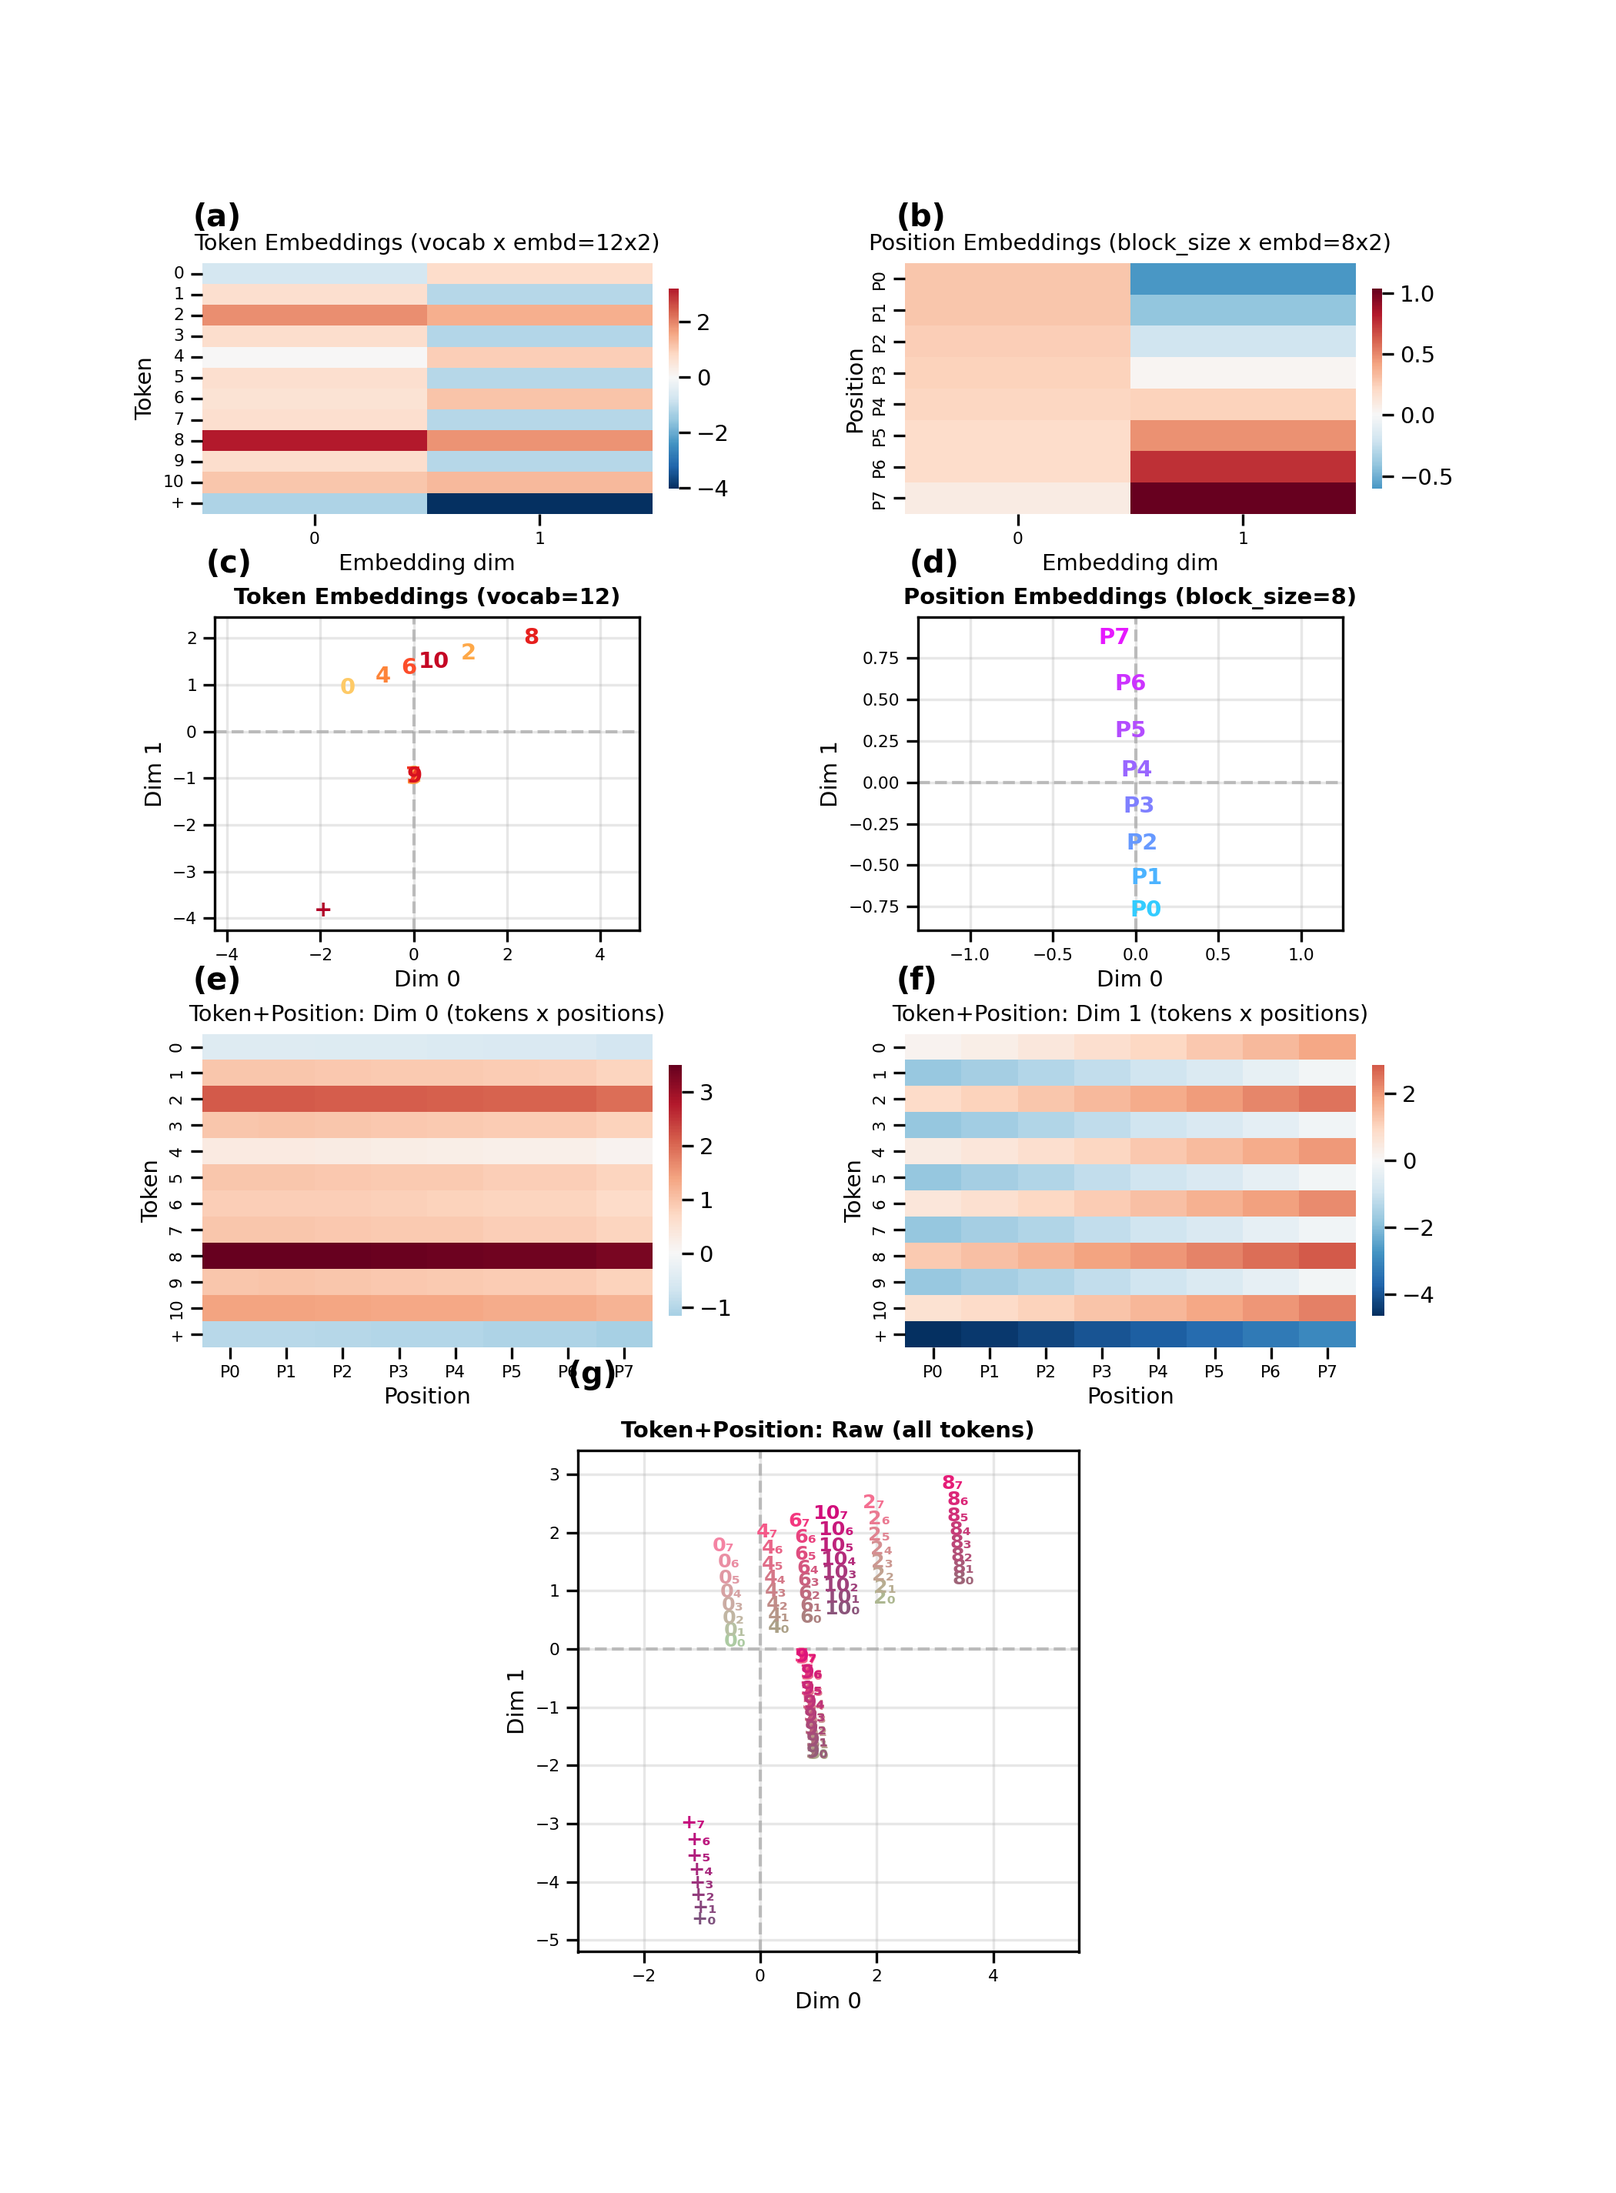
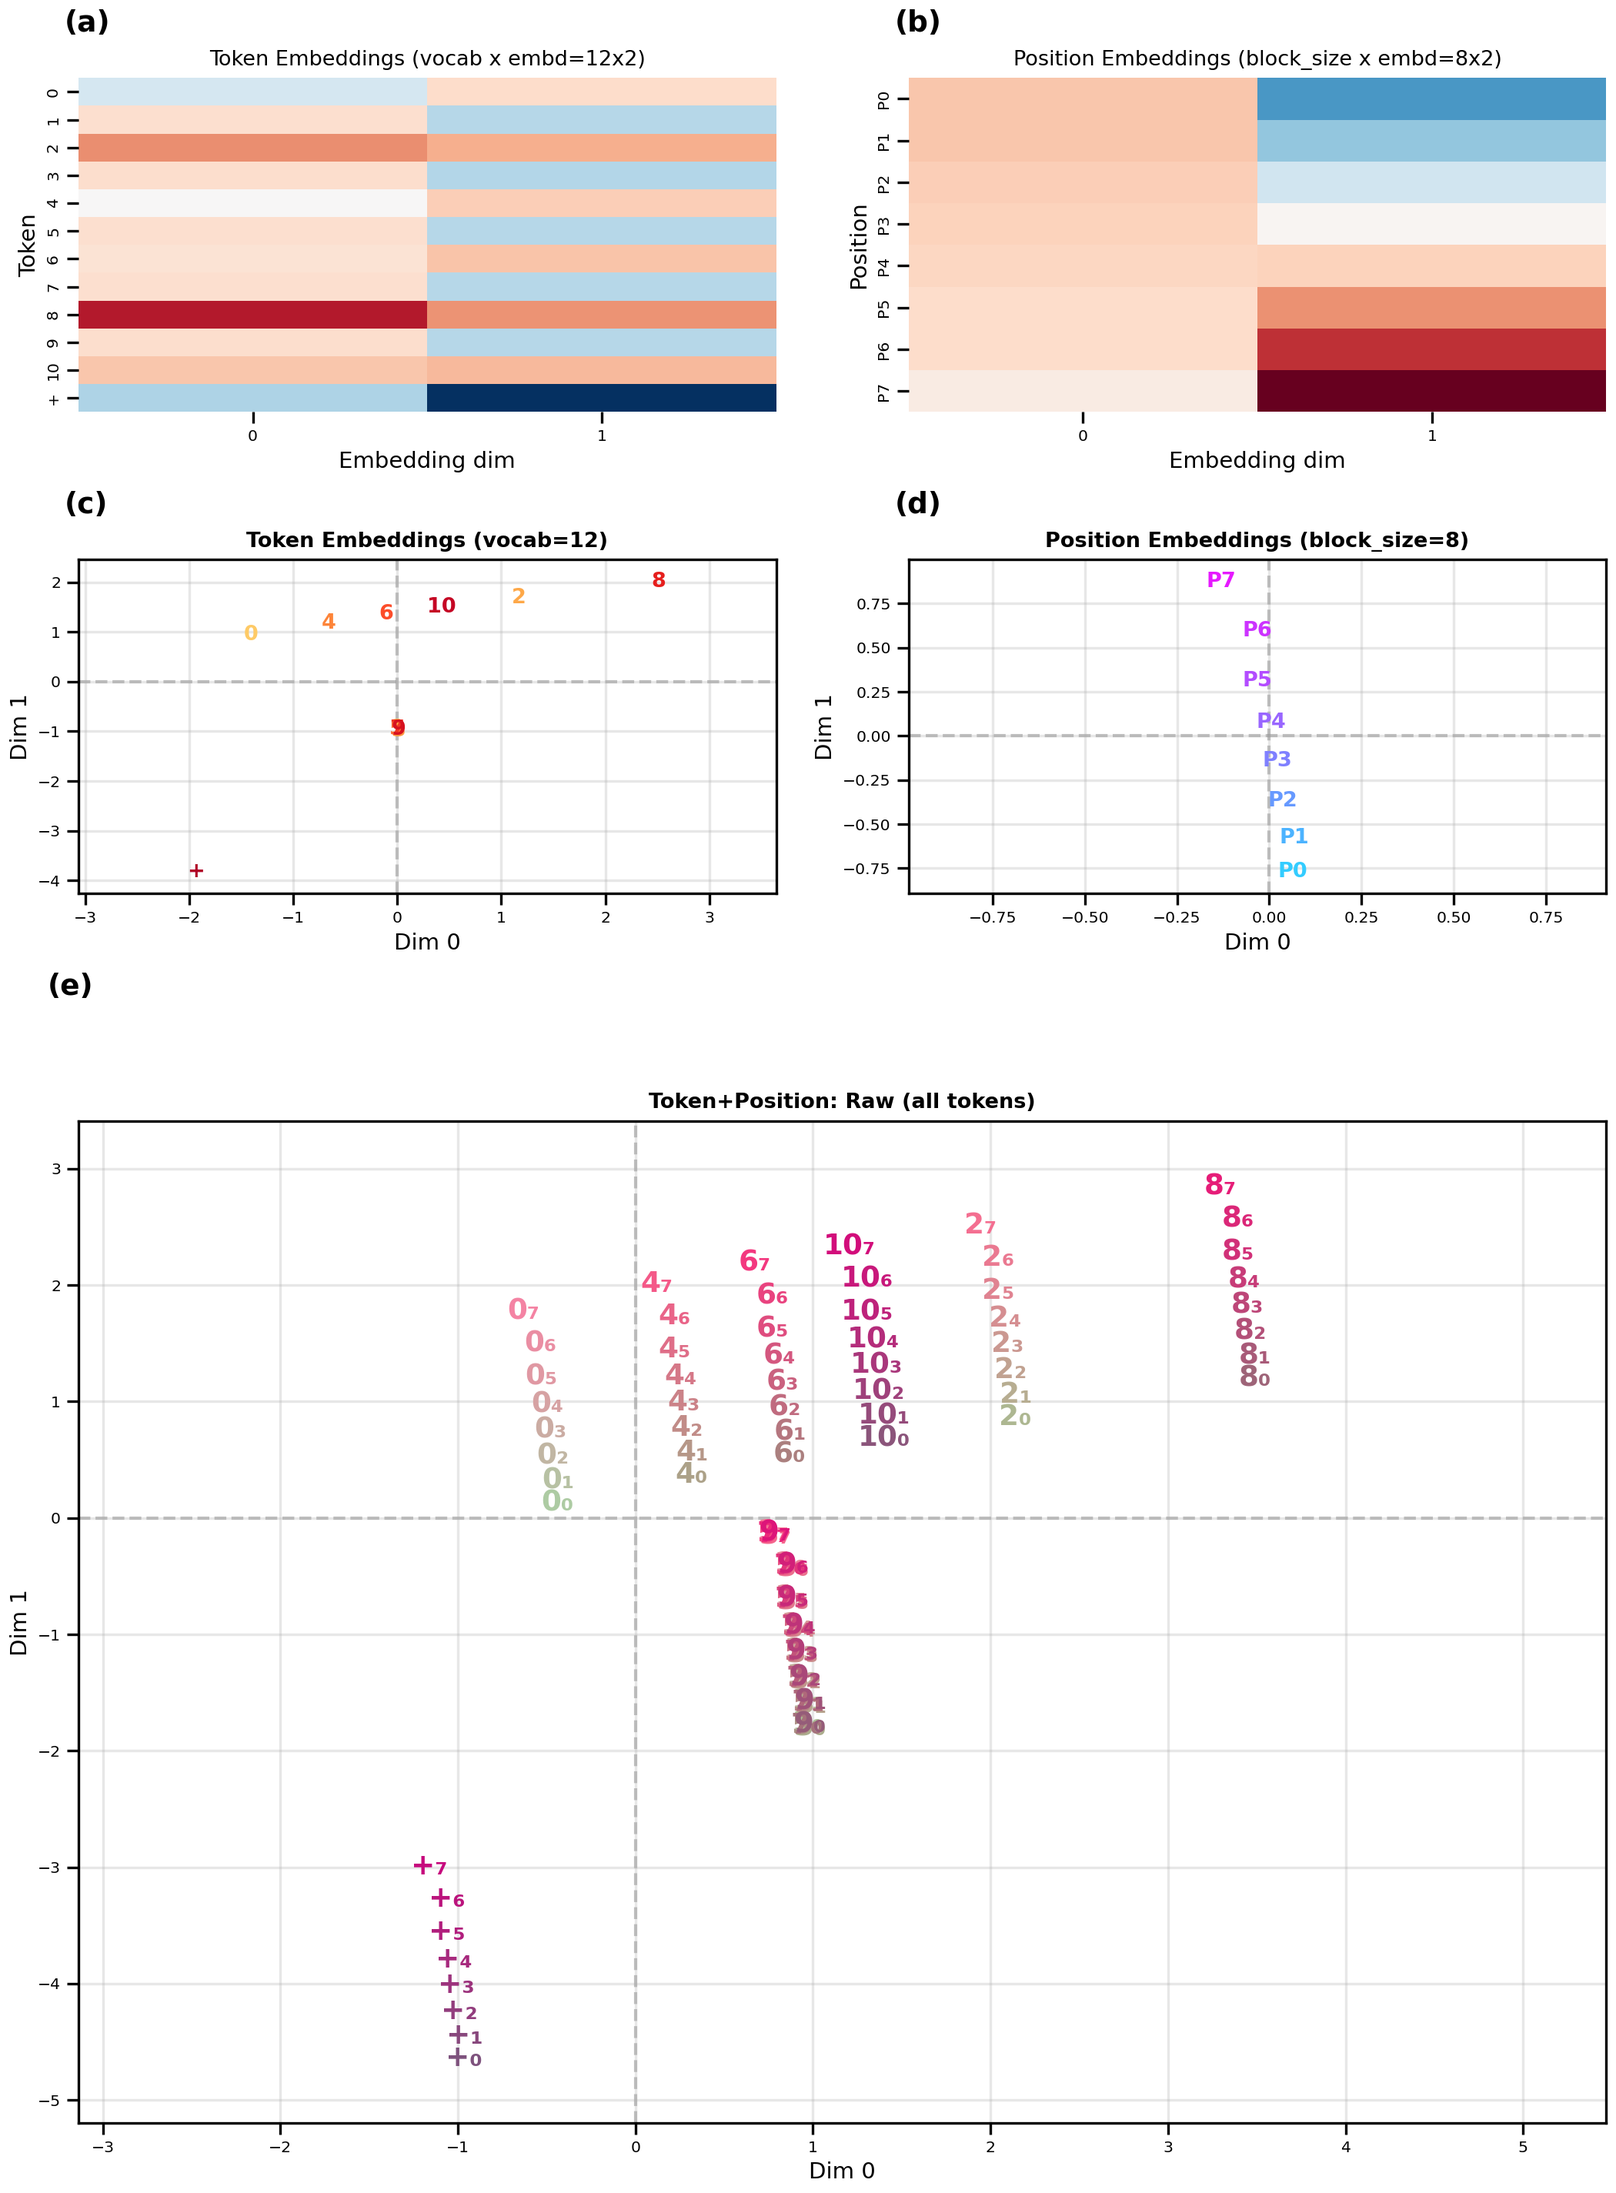
figure 5

diff --git a/plotting/plots.py b/plotting/plots.py
@@ -137,12 +137,20 @@ def clear_journal_mode():
 
 
 def _label_panels(axes, fontsize=None, x=-0.02, y=1.06):
-    """Add (a), (b), (c)... panel labels to a list of axes (journal mode only)."""
+    """Add (a), (b), (c)... panel labels to a list of axes (journal mode only).
+
+    For figures with a tall bottom panel (e.g., embeddings figure where panel (e)
+    spans two columns), the last axis often needs a slightly lower label to
+    avoid overlapping the title. We therefore nudge the last label down a bit.
+    """
     if not _JOURNAL_MODE or len(axes) <= 1:
         return
     fs = fontsize or 11
+    n = len(axes)
     for i, ax in enumerate(axes):
         label = chr(ord('a') + i)
+        # Slightly lower label for the final, tall panel (e.g., panel (e)).
+        y_pos = y - 0.06 if i == n - 1 else y
         ax.text(x, y, f'({label})', transform=ax.transAxes,
                 fontsize=fs, fontweight='bold', va='bottom', ha='left')
 
@@ -807,11 +815,8 @@ def plot_embeddings_pca(model, itos, save_path=None):
         ax.set_ylim(cy - h_y, cy + h_y)
 
     if _JOURNAL_MODE:
-        # Match panel sizes to standard layout: standard cell ~4.75" wide × 4.5" tall
-        # Rows 2–3 (scatter c,d and heatmaps e,f) slightly taller so scatter panels are bigger
-        fig = plt.figure(figsize=(9.5, 18.0))
-        gs = GridSpec(4, 2, figure=fig, hspace=0.3, wspace=0.28,
-                      height_ratios=[1, 1.25, 1.25, 2])
+        fig = plt.figure(figsize=(11.0, 14.0), constrained_layout=True)
+        gs = GridSpec(4, 2, figure=fig, height_ratios=[1, 1, 1.5, 1.5])
         pos_display_labels = [f"P{i}" for i in range(block_size)]
     else:
         pos_display_labels = None
@@ -820,8 +825,20 @@ def plot_embeddings_pca(model, itos, save_path=None):
     pos_labels = [f"P{i}" for i in range(block_size)] if _JOURNAL_MODE else [_pos_only_label(i) for i in range(block_size)]
     ax1 = fig.add_subplot(gs[0, 0])
     x_labels = list(range(embeddings.shape[1]))
-    _cbar_kw = {'orientation': 'vertical', 'pad': 0.03, 'aspect': 20, 'shrink': 0.8} if _JOURNAL_MODE else {}
-    sns.heatmap(embeddings, yticklabels=y_labels, xticklabels=x_labels, cmap="RdBu_r", center=0, ax=ax1, cbar_kws=_cbar_kw)
+    # For the journal layout, disable external colorbars so all rows share the
+    # same effective width; GridSpec alone controls alignment.
+    _use_cbar = not _JOURNAL_MODE
+    _cbar_kw = {'orientation': 'vertical', 'pad': 0.03, 'aspect': 20, 'shrink': 0.8} if _use_cbar else None
+    sns.heatmap(
+        embeddings,
+        yticklabels=y_labels,
+        xticklabels=x_labels,
+        cmap="RdBu_r",
+        center=0,
+        ax=ax1,
+        cbar=_use_cbar,
+        cbar_kws=_cbar_kw or {},
+    )
     if _JOURNAL_MODE:
         ax1.set_aspect('auto')
     _title_fs = 8 if _JOURNAL_MODE else 11
@@ -851,7 +868,11 @@ def plot_embeddings_pca(model, itos, save_path=None):
         ax3.axhline(y=0, color='gray', linestyle='--', linewidth=1, alpha=0.5, zorder=0.5)
         ax3.axvline(x=0, color='gray', linestyle='--', linewidth=1, alpha=0.5, zorder=0.5)
         ax3.grid(True, alpha=0.3)
-        ax3.set_aspect('equal', adjustable='box')
+        # In journal mode, keep cell sizes consistent with heatmaps; avoid forcing equal aspect.
+        if _JOURNAL_MODE:
+            ax3.set_aspect('auto')
+        else:
+            ax3.set_aspect('equal', adjustable='box')
         token_fontsize = get_fontsize(vocab_size)
         if vocab_size <= 80:
             for i in range(vocab_size):
@@ -875,7 +896,10 @@ def plot_embeddings_pca(model, itos, save_path=None):
         ax3.axhline(y=0, color='gray', linestyle='--', linewidth=1, alpha=0.5, zorder=0.5)
         ax3.axvline(x=0, color='gray', linestyle='--', linewidth=1, alpha=0.5, zorder=0.5)
         ax3.grid(True, alpha=0.3)
-        ax3.set_aspect('equal', adjustable='box')
+        if _JOURNAL_MODE:
+            ax3.set_aspect('auto')
+        else:
+            ax3.set_aspect('equal', adjustable='box')
         token_fontsize = get_fontsize(vocab_size)
         if vocab_size <= 80:
             for i in range(vocab_size):
@@ -905,7 +929,16 @@ def plot_embeddings_pca(model, itos, save_path=None):
     # Row 0, Col 1: Position embeddings raw
     ax4 = fig.add_subplot(gs[0, 1])
     x_labels = list(range(pos_emb_all.shape[1]))
-    sns.heatmap(pos_emb_all, yticklabels=pos_labels, xticklabels=x_labels, cmap="RdBu_r", center=0, ax=ax4, cbar_kws=_cbar_kw)
+    sns.heatmap(
+        pos_emb_all,
+        yticklabels=pos_labels,
+        xticklabels=x_labels,
+        cmap="RdBu_r",
+        center=0,
+        ax=ax4,
+        cbar=_use_cbar,
+        cbar_kws=_cbar_kw or {},
+    )
     if _JOURNAL_MODE:
         ax4.set_aspect('auto')
     ax4.set_title(f"Position Embeddings (block_size×embd={block_size}×{n_embd})" if not _JOURNAL_MODE else f"Position Embeddings (block_size x embd={block_size}x{n_embd})", fontsize=_title_fs)
@@ -934,7 +967,10 @@ def plot_embeddings_pca(model, itos, save_path=None):
         ax6.axhline(y=0, color='gray', linestyle='--', linewidth=1, alpha=0.5, zorder=0.5)
         ax6.axvline(x=0, color='gray', linestyle='--', linewidth=1, alpha=0.5, zorder=0.5)
         ax6.grid(True, alpha=0.3)
-        ax6.set_aspect('equal', adjustable='box')
+        if _JOURNAL_MODE:
+            ax6.set_aspect('auto')
+        else:
+            ax6.set_aspect('equal', adjustable='box')
         pos_fontsize = get_fontsize(block_size)
         if block_size <= 80:
             for i in range(block_size):
@@ -958,7 +994,10 @@ def plot_embeddings_pca(model, itos, save_path=None):
         ax6.axhline(y=0, color='gray', linestyle='--', linewidth=1, alpha=0.5, zorder=0.5)
         ax6.axvline(x=0, color='gray', linestyle='--', linewidth=1, alpha=0.5, zorder=0.5)
         ax6.grid(True, alpha=0.3)
-        ax6.set_aspect('equal', adjustable='box')
+        if _JOURNAL_MODE:
+            ax6.set_aspect('auto')
+        else:
+            ax6.set_aspect('equal', adjustable='box')
         pos_fontsize = get_fontsize(block_size)
         if block_size <= 80:
             for i in range(block_size):
@@ -995,51 +1034,41 @@ def plot_embeddings_pca(model, itos, save_path=None):
     
     token_labels = [itos[i] for i in range(max_token_idx)]
 
-    # Token+Position Dim 0: journal row 2 col 0; standard row 0 col 2
-    ax10 = fig.add_subplot(gs[2, 0] if _JOURNAL_MODE else gs[0, 2])
-    dim0_heatmap = np.zeros((max_token_idx, block_size))
-    for token_idx in range(max_token_idx):
-        for pos_idx in range(block_size):
-            idx = token_idx * block_size + pos_idx
-            dim0_heatmap[token_idx, pos_idx] = all_combinations[idx, 0]
-    sns.heatmap(dim0_heatmap, yticklabels=token_labels, xticklabels=pos_labels, cmap="RdBu_r", center=0, ax=ax10, cbar_kws=_cbar_kw)
-    if _JOURNAL_MODE:
-        ax10.set_aspect('auto')
-    ax10.set_title("Token+Position: Dim 0 (tokens×positions)" if not _JOURNAL_MODE else "Token+Position: Dim 0 (tokens x positions)", fontsize=_title_fs)
-    ax10.set_xlabel("Position")
-    ax10.set_ylabel("Token")
-    ax10.set_xticklabels(ax10.get_xticklabels(), rotation=0)
-    if _JOURNAL_MODE:
-        ax10.tick_params(axis='both', labelsize=6)
-    
-    # Token+Position Dim 1: journal row 2 col 1; standard row 0 col 3 (only when n_embd >= 2)
-    if n_embd >= 2:
-        ax10b = fig.add_subplot(gs[2, 1] if _JOURNAL_MODE else gs[0, 3])
-        dim1_heatmap = np.zeros((max_token_idx, block_size))
+    if not _JOURNAL_MODE:
+        # Token+Position Dim 0 heatmap (standard layout only)
+        ax10 = fig.add_subplot(gs[0, 2])
+        dim0_heatmap = np.zeros((max_token_idx, block_size))
         for token_idx in range(max_token_idx):
             for pos_idx in range(block_size):
                 idx = token_idx * block_size + pos_idx
-                dim1_heatmap[token_idx, pos_idx] = all_combinations[idx, 1]
-        sns.heatmap(dim1_heatmap, yticklabels=token_labels, xticklabels=pos_labels, cmap="RdBu_r", center=0, ax=ax10b, cbar_kws=_cbar_kw)
-        if _JOURNAL_MODE:
-            ax10b.set_aspect('auto')
-        ax10b.set_title("Token+Position: Dim 1 (tokens×positions)" if not _JOURNAL_MODE else "Token+Position: Dim 1 (tokens x positions)", fontsize=_title_fs)
-        ax10b.set_xlabel("Position")
-        ax10b.set_ylabel("Token")
-        ax10b.set_xticklabels(ax10b.get_xticklabels(), rotation=0)
-        if _JOURNAL_MODE:
-            ax10b.tick_params(axis='both', labelsize=6)
-    
-    # Token+Position scatter: journal row 4 full width; standard row 1 cols 2-3
-    ax12 = fig.add_subplot(gs[3, :] if _JOURNAL_MODE else gs[1, 2:4])
-    if not _JOURNAL_MODE:
-        pos = ax12.get_position()
-        one_col = pos.width / 2
-        ax12.set_position([pos.x0 + pos.width / 4, pos.y0, one_col, pos.height])
+                dim0_heatmap[token_idx, pos_idx] = all_combinations[idx, 0]
+        sns.heatmap(dim0_heatmap, yticklabels=token_labels, xticklabels=pos_labels, cmap="RdBu_r", center=0, ax=ax10)
+        ax10.set_title("Token+Position: Dim 0 (tokens×positions)", fontsize=_title_fs)
+        ax10.set_xlabel("Position")
+        ax10.set_ylabel("Token")
+        ax10.set_xticklabels(ax10.get_xticklabels(), rotation=0)
+
+        # Token+Position Dim 1 heatmap (standard layout only)
+        if n_embd >= 2:
+            ax10b = fig.add_subplot(gs[0, 3])
+            dim1_heatmap = np.zeros((max_token_idx, block_size))
+            for token_idx in range(max_token_idx):
+                for pos_idx in range(block_size):
+                    idx = token_idx * block_size + pos_idx
+                    dim1_heatmap[token_idx, pos_idx] = all_combinations[idx, 1]
+            sns.heatmap(dim1_heatmap, yticklabels=token_labels, xticklabels=pos_labels, cmap="RdBu_r", center=0, ax=ax10b)
+            ax10b.set_title("Token+Position: Dim 1 (tokens×positions)", fontsize=_title_fs)
+            ax10b.set_xlabel("Position")
+            ax10b.set_ylabel("Token")
+            ax10b.set_xticklabels(ax10b.get_xticklabels(), rotation=0)
+
+    # Token+Position scatter: journal rows 2–3 full width (2×2); standard row 1 cols 2–3.
+    ax12 = fig.add_subplot(gs[2:4, :] if _JOURNAL_MODE else gs[1, 2:4])
     # Dynamic font size for token+position (usually more items)
     combo_fontsize = get_fontsize(num_combinations)
     if _JOURNAL_MODE:
-        combo_fontsize = max(combo_fontsize + 2, 7)
+        # Make token+position annotations more legible in the large bottom panel.
+        combo_fontsize = max(combo_fontsize + 6, 11)
     
     if n_embd > 2:
         # Do PCA for dimensions > 2
@@ -1072,7 +1101,10 @@ def plot_embeddings_pca(model, itos, save_path=None):
         ax12.axhline(y=0, color='gray', linestyle='--', linewidth=1, alpha=0.5, zorder=0.5)
         ax12.axvline(x=0, color='gray', linestyle='--', linewidth=1, alpha=0.5, zorder=0.5)
         ax12.grid(True, alpha=0.3)
-        ax12.set_aspect('equal', adjustable='box')
+        if _JOURNAL_MODE:
+            ax12.set_aspect('auto')
+        else:
+            ax12.set_aspect('equal', adjustable='box')
         if _JOURNAL_MODE:
             ax12.tick_params(axis='both', labelsize=6)
     elif n_embd == 2:
@@ -1103,7 +1135,10 @@ def plot_embeddings_pca(model, itos, save_path=None):
         ax12.axhline(y=0, color='gray', linestyle='--', linewidth=1, alpha=0.5, zorder=0.5)
         ax12.axvline(x=0, color='gray', linestyle='--', linewidth=1, alpha=0.5, zorder=0.5)
         ax12.grid(True, alpha=0.3)
-        ax12.set_aspect('equal', adjustable='box')
+        if _JOURNAL_MODE:
+            ax12.set_aspect('auto')
+        else:
+            ax12.set_aspect('equal', adjustable='box')
         if _JOURNAL_MODE:
             ax12.tick_params(axis='both', labelsize=6)
     else:
@@ -1131,26 +1166,14 @@ def plot_embeddings_pca(model, itos, save_path=None):
         if _JOURNAL_MODE:
             ax12.tick_params(axis='both', labelsize=6)
     
-    _emb_axes = [ax1, ax4, ax3, ax6, ax10]
-    if n_embd >= 2:
-        _emb_axes.append(ax10b)
-    _emb_axes.append(ax12)
-    # In journal mode, make scatter panels (c, d) align with heatmaps (a, b): same width, then set limits to fill
-    if _JOURNAL_MODE and n_embd >= 2:
-        if fig.canvas is not None:
-            fig.canvas.draw()
-        pos1 = ax1.get_position()
-        pos4 = ax4.get_position()
-        pos3 = ax3.get_position()
-        pos6 = ax6.get_position()
-        ax3.set_position([pos1.x0, pos3.y0, pos1.width, pos3.height])
-        ax6.set_position([pos4.x0, pos6.y0, pos4.width, pos6.height])
-        if n_embd == 2:
-            _set_limits_to_match_box_aspect(ax3, X_emb[:, 0], X_emb[:, 1])
-            _set_limits_to_match_box_aspect(ax6, X_pos[:, 0], X_pos[:, 1])
-        else:
-            _set_limits_to_match_box_aspect(ax3, X2[:, 0], X2[:, 1])
-            _set_limits_to_match_box_aspect(ax6, X2_pos[:, 0], X2_pos[:, 1])
+    if _JOURNAL_MODE:
+        _emb_axes = [ax1, ax4, ax3, ax6, ax12]
+    else:
+        _emb_axes = [ax1, ax4, ax3, ax6, ax10]
+        if n_embd >= 2:
+            _emb_axes.append(ax10b)
+        _emb_axes.append(ax12)
+    # Grid layout is handled purely via GridSpec; no manual axis repositioning.
     _label_panels(_emb_axes, y=1.12)
 
     if not _JOURNAL_MODE:
